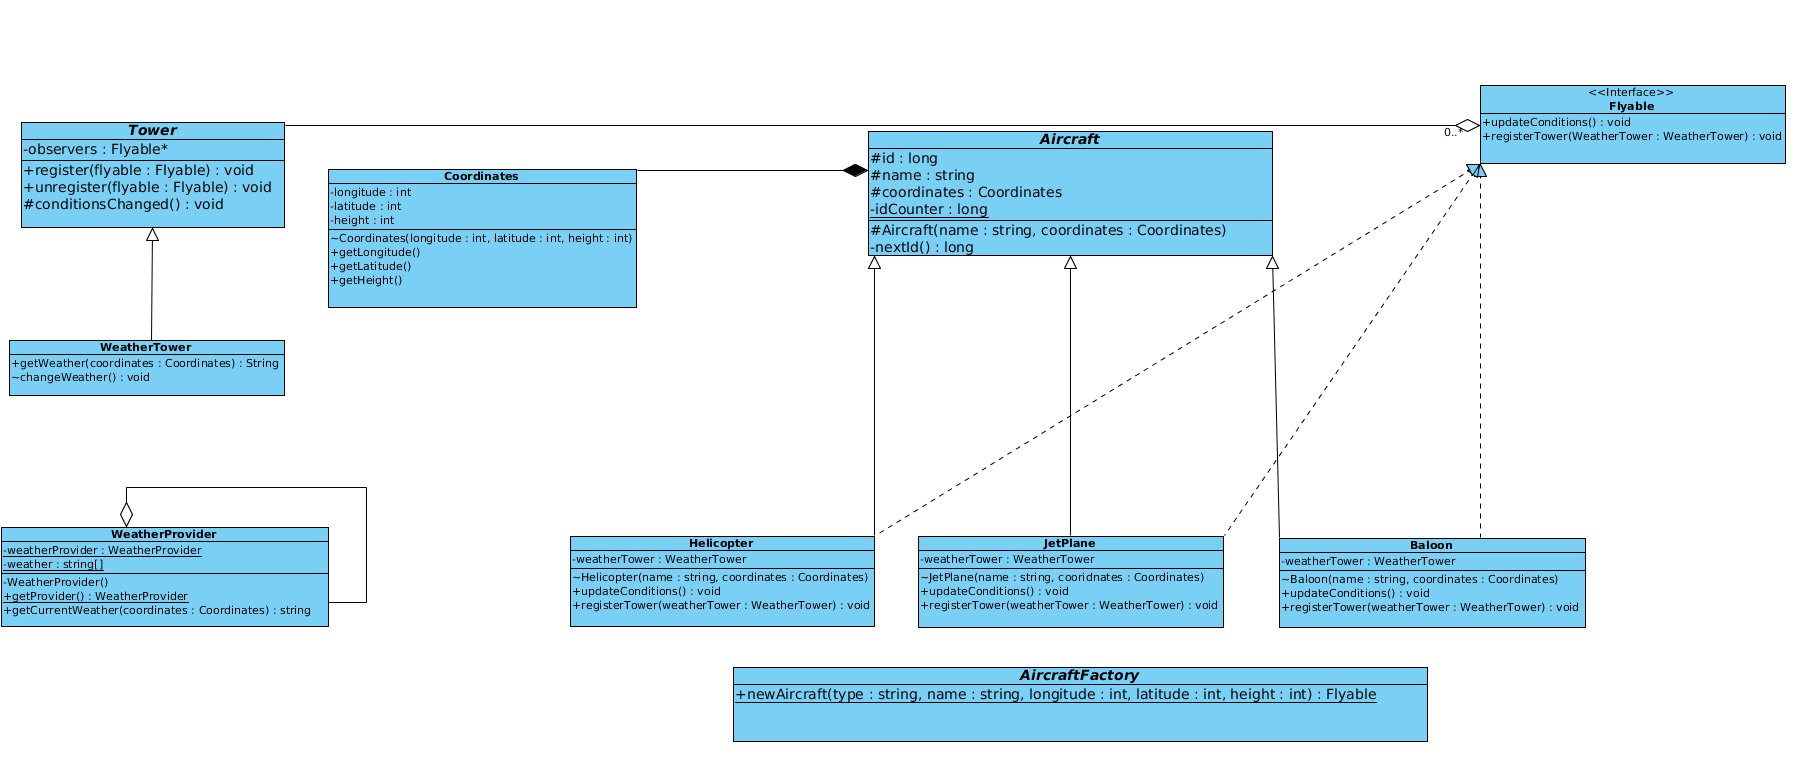
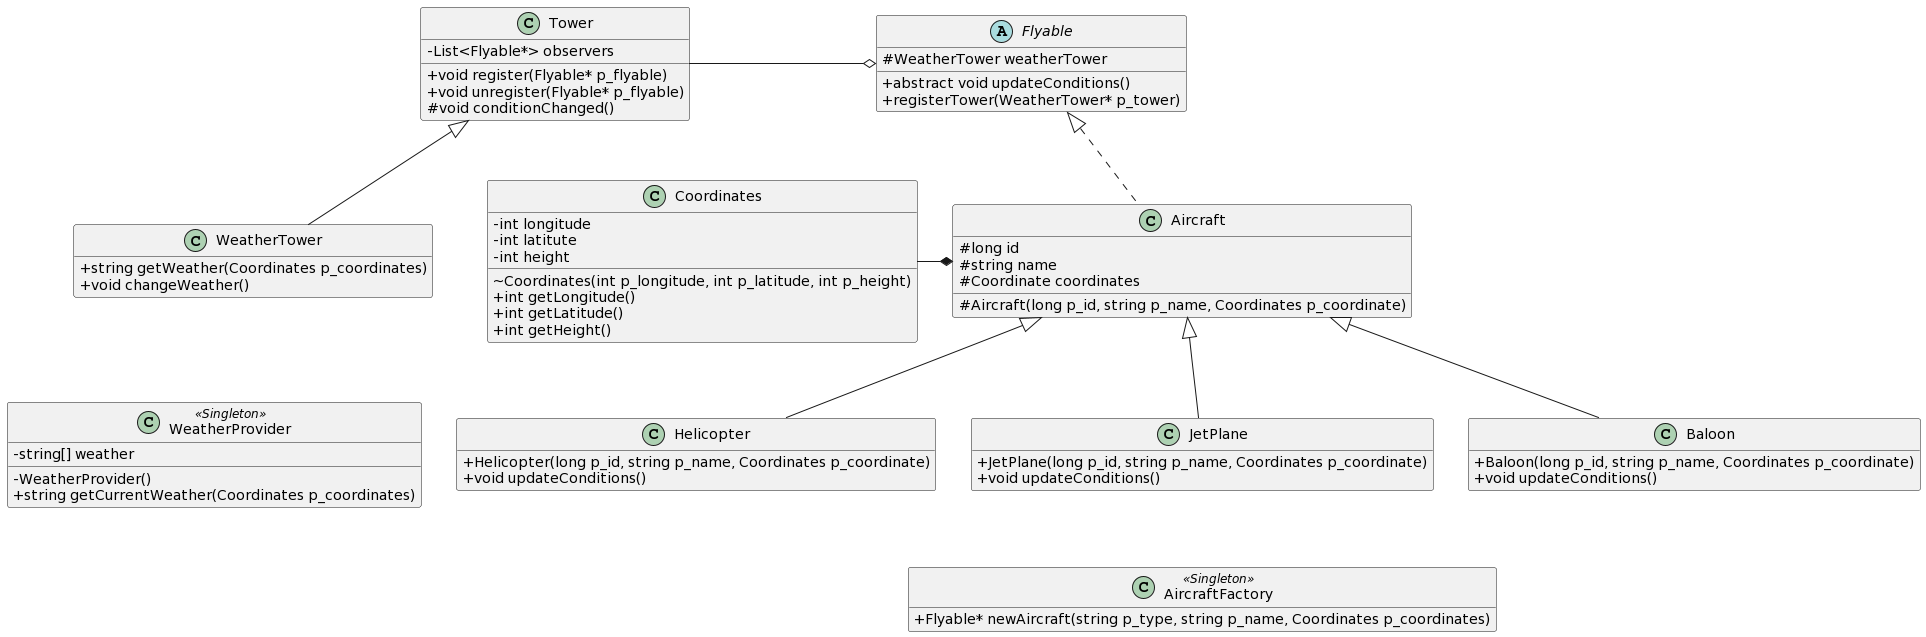
chore: update subject
- change uml
- add sources.txt to gitignore
- format rdme

Changed region(s): [[0.0, 0.0, 0.9978, 0.5369], [0.0, 0.6264, 0.9978, 1.0]]

diff --git a/README.md b/README.md
@@ -1,19 +1,27 @@
-## Getting Started
-
-Welcome to the VS Code Java world. Here is a guideline to help you get started to write Java code in Visual Studio Code.
-
-## Folder Structure
-
-The workspace contains two folders by default, where:
-
-- `src`: the folder to maintain sources
-- `lib`: the folder to maintain dependencies
-
-Meanwhile, the compiled output files will be generated in the `bin` folder by default.
-
-> If you want to customize the folder structure, open `.vscode/settings.json` and update the related settings there.
-
-## Dependency Management
-
-The `JAVA PROJECTS` view allows you to manage your dependencies. More details can be found [here](https://github.com/microsoft/vscode-java-dependency#manage-dependencies).
 # avaj_launcher
+
+
+Build project using: 
+
+```
+    find * -name "*.java" > sources.txt
+    javac @sources.txt
+```
+
+
+
+Run using:
+```
+    java -cp src Simulator <file>
+```
+
+
+## Subject
+
+You need to implement an aircraft simulation program based on the class diagram pro-
+vided to you. All classes are required to be implemented respecting every detail provided
+in the diagram. Feel free to add more classes or include additional attributes if you think
+it is necessary, but do not change access modifiers or the class hierarchy for the classes
+provided in the diagram
+
+![uml](avaj_uml.png)
